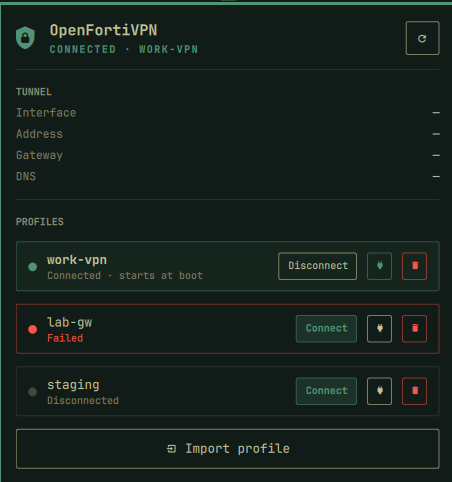
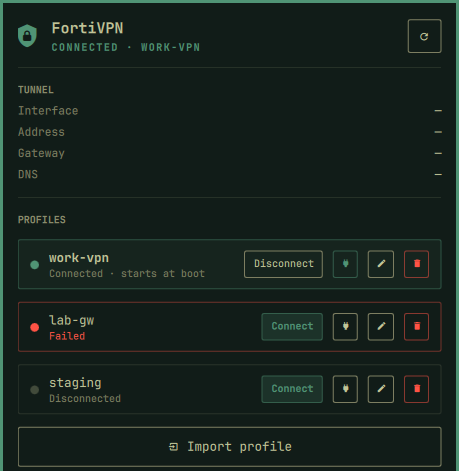
Present the widget as FortiVPN, with openfortivpn as the backend
People look for "FortiVPN", not for the name of the client that implements
it. The bar icon, panel hero, tooltips and manifest now read FortiVPN, while
anything actionable -- the package to install, the config directory, the
systemd unit -- still names openfortivpn, because that is what the user
would type or look up.

Adds an explicit note that this is unofficial and unaffiliated with
Fortinet, since the branding could otherwise read as a first-party client.

Screenshots retaken against the new hero. The empty-state and first-run
captures are dropped rather than shipped showing the old name; they will be
retaken.

Claude-Session: https://claude.ai/code/session_01NbQoEpR5CJKUR9itDMTPkf

Changed region(s): [[0.0, 0.0, 1.0, 1.0], [0.5575, 0.7728, 0.9602, 0.862], [0.0619, 0.7728, 0.2788, 0.862]]

diff --git a/BarWidget.qml b/BarWidget.qml
@@ -7,7 +7,11 @@ import Quickshell.Io
 import qs.Commons
 import qs.Ui
 
-// OpenFortiVPN bar widget.
+// FortiVPN bar widget.
+//
+// Presented as "FortiVPN" because that is what people are connecting to; the
+// tunnelling is done by the openfortivpn package, which is what the paths, unit
+// names and the dependency installer all refer to. Unaffiliated with Fortinet.
 //
 // Profiles are the *.conf files in /etc/openfortivpn; each one is an instance of
 // the packaged openfortivpn@.service template. Connecting is therefore just
@@ -76,9 +80,9 @@ Panel {
     : "No profiles installed"
 
   readonly property string tooltip: setupRequired
-    ? "OpenFortiVPN: openfortivpn is not installed"
-    : connectedCount > 0 ? "OpenFortiVPN: " + activeName + " connected"
-    : profiles.length > 0 ? "OpenFortiVPN: disconnected" : "OpenFortiVPN: no profiles"
+    ? "FortiVPN: backend not installed"
+    : connectedCount > 0 ? "FortiVPN: " + activeName + " connected"
+    : profiles.length > 0 ? "FortiVPN: disconnected" : "FortiVPN: no profiles"
 
   function refresh() { service.refresh() }
 
@@ -274,7 +278,7 @@ Panel {
 
               Text {
                 width: parent.width
-                text: "OpenFortiVPN"
+                text: "FortiVPN"
                 color: root.foreground
                 font.family: root.fontFamily
                 font.pixelSize: Style.font.title
@@ -371,7 +375,7 @@ Panel {
               Text {
                 width: parent.width
                 horizontalAlignment: Text.AlignHCenter
-                text: "openfortivpn is not installed"
+                text: "FortiVPN backend not installed"
                 textFormat: Text.PlainText
                 color: root.foreground
                 font.family: root.fontFamily
@@ -383,7 +387,7 @@ Panel {
                 horizontalAlignment: Text.AlignHCenter
                 wrapMode: Text.WordWrap
                 text: service.depsInstallable
-                  ? "This widget drives the openfortivpn package and its systemd unit. Install it to get started."
+                  ? "FortiVPN tunnels are handled by the openfortivpn package and its systemd unit. Install it to get started."
                   : "This widget needs the openfortivpn package. Install it with your distribution's package manager."
                 textFormat: Text.PlainText
                 color: root.dim
@@ -604,7 +608,7 @@ Panel {
                 width: parent.width
                 horizontalAlignment: Text.AlignHCenter
                 wrapMode: Text.WordWrap
-                text: "Import a .conf your admin gave you. It is installed to /etc/openfortivpn, readable only by root."
+                text: "Import the FortiVPN .conf your admin gave you. It is stored in /etc/openfortivpn, readable only by root."
                 textFormat: Text.PlainText
                 color: root.dim
                 font.family: root.fontFamily

diff --git a/README.md b/README.md
@@ -1,14 +1,22 @@
-# OpenFortiVPN for Omarchy
+# FortiVPN for Omarchy
 
-An Omarchy Shell (Quickshell) bar widget for managing **openfortivpn** FortiGate
-SSL VPN profiles: connect, disconnect, set which profiles come up at boot, and
-import new `.conf` files through the desktop file picker.
+A **FortiVPN** client that lives in your Omarchy bar. Connect to your company's
+Fortinet SSL VPN, switch between profiles, pick which ones come up at boot, and
+import the `.conf` your admin sent you — without opening a terminal.
 
-![The OpenFortiVPN panel](screenshots/panel.png)
+![The FortiVPN panel](screenshots/panel.png)
 
-| Bar status | No profiles yet | First run |
-| --- | --- | --- |
-| ![Bar icon](screenshots/bar.png) | ![Empty state](screenshots/empty.png) | ![Setup](screenshots/setup.png) |
+Under the hood it drives [openfortivpn](https://github.com/adrienverge/openfortivpn),
+the open-source FortiGate SSL VPN client, through systemd. That is where the
+package name, config paths and unit names throughout this README come from — you
+do not have to touch any of them, and the widget installs openfortivpn for you
+on first run.
+
+> **Unofficial.** Not affiliated with, authorised by, or endorsed by Fortinet.
+> "FortiVPN", "FortiGate" and "FortiClient" are trademarks of Fortinet, Inc.
+> This project just automates the open-source `openfortivpn` client.
+
+![The widget in the bar](screenshots/bar.png)
 
 ## Installation
 
@@ -28,7 +36,7 @@ Plugin changes normally hot-reload. If the widget does not appear, run
 and `omarchy plugin remove rhakbari.openfortivpn` manage it.
 
 Nothing else to set up: Omarchy's plugin system has no install hook, so the
-widget checks for the `openfortivpn` package itself on first run. If it is
+widget checks for its `openfortivpn` backend itself on first run. If it is
 missing, the panel opens on a **Install openfortivpn** button that installs it
 (one polkit prompt) and then continues as normal.
 
@@ -137,7 +145,8 @@ Keyboard, while the panel has focus:
 
 ## Profile format
 
-A minimal `/etc/openfortivpn/<name>.conf`:
+Profiles use openfortivpn's own config format, so a file your admin hands you for
+the command-line client works unchanged. A minimal `/etc/openfortivpn/<name>.conf`:
 
 ```ini
 host = vpn.example.com
